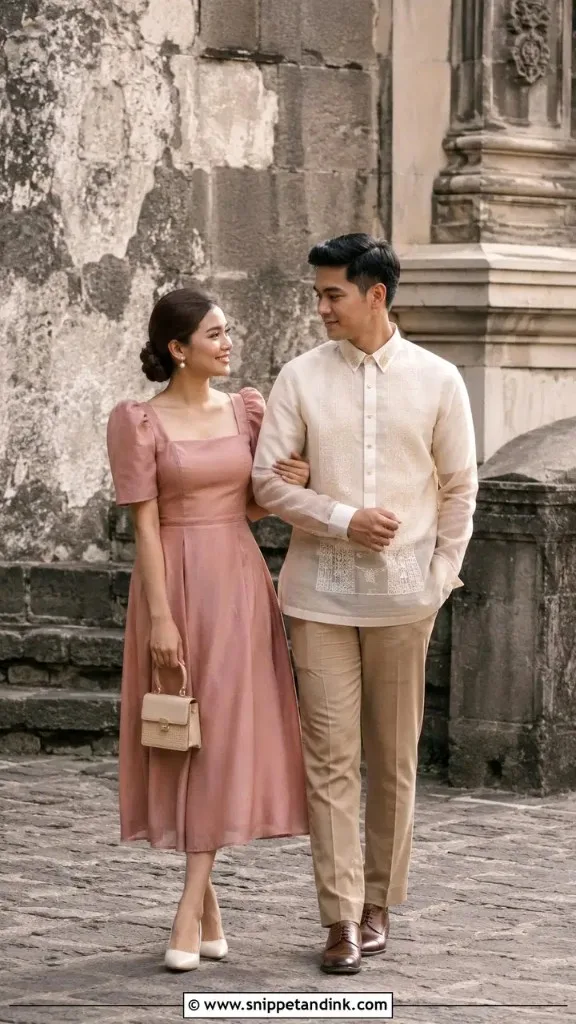
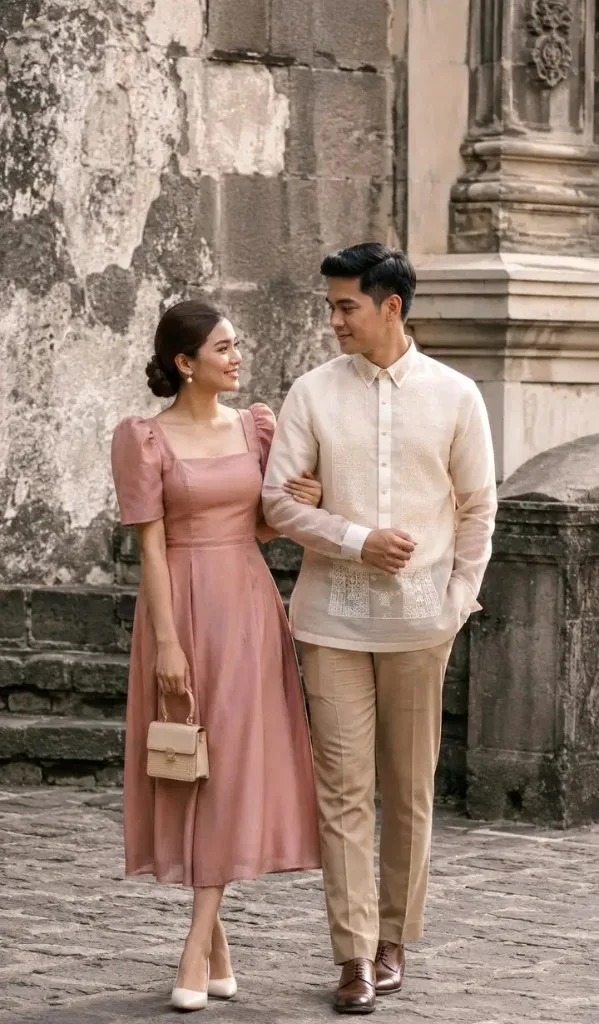
UI enhances

diff --git a/src/features/invitations/components/lantern/config/wedding-defaults.ts b/src/features/invitations/components/lantern/config/wedding-defaults.ts
@@ -88,12 +88,12 @@ export const weddingDefaults = {
           men: "Cream Barong Tagalog.",
           swatches: ["#F4C2C2", "#CB7579", "#CB938C", "#F7E7CE"],
           badge: null,
-          imageSrc: "/attire/family-editorial.webp",
-          imageAlt: "Family formal attire in dusty rose and cream Barong Tagalog",
+          imageSrc: "/attire/secondary-sponsors.webp",
+          imageAlt: "Secondary sponsors in dusty rose formal dress and cream Barong Tagalog",
         },
         {
           role: "Principal Sponsors",
-          description: "Formal attire in shades of Antique white, Champagne and Bisque",
+          description: "Formal Attire in Shades of Cream and Champagne",
           women: null,
           men: null,
           swatches: ["#FAEBD7", "#F7F7CE", "#FFE4C4"],
@@ -103,8 +103,7 @@ export const weddingDefaults = {
         },
         {
           role: "Team Bride",
-          description:
-            " Pastel Pink, Pink, Flamingo pink, and Carnation pink (Provided by the Couple)",
+          description: "Light Pink Attire (Provided by the Couple)",
           women: null,
           men: null,
           swatches: ["#FFD1DC", "#FFC0CB", "#FC8EAC", "#FFA6C9"],
@@ -114,7 +113,7 @@ export const weddingDefaults = {
         },
         {
           role: "Team Groom",
-          description: "Light tan Suit with Baby Pink Tie (Provided by the Couple)",
+          description: "Cream Suit with Pink Tie (Provided by the Couple)",
           women: null,
           men: null,
           swatches: ["#ECDEC9", "#F4C2C2"],

diff --git a/src/features/invitations/components/lantern/effects/prism-carousel.tsx b/src/features/invitations/components/lantern/effects/prism-carousel.tsx
@@ -337,7 +337,7 @@ export const PrismCarousel = React.forwardRef<PrismCarouselHandle, Props>(
                   }
                   aria-current={isActive ? "true" : undefined}
                   className={[
-                    "absolute left-1/2 top-1/2 overflow-hidden border-0 bg-transparent p-0 shadow-[0_28px_60px_-36px_rgba(96,40,60,0.55)] focus-visible:outline focus-visible:outline-2 focus-visible:outline-offset-4 focus-visible:outline-[color:var(--color-lantern,#f4c444)]",
+                    "absolute left-1/2 top-1/2 overflow-hidden border-0 bg-[#f7efe8] p-0 shadow-[0_28px_60px_-36px_rgba(96,40,60,0.55)] focus-visible:outline focus-visible:outline-2 focus-visible:outline-offset-4 focus-visible:outline-[color:var(--color-lantern,#f4c444)]",
                     isActive ? "cursor-zoom-in" : "cursor-pointer",
                   ].join(" ")}
                   style={{
@@ -403,7 +403,7 @@ export const PrismCarousel = React.forwardRef<PrismCarouselHandle, Props>(
                     alt={item.alt}
                     fill
                     sizes="(max-width: 768px) 70vw, 360px"
-                    className="pointer-events-none select-none object-cover object-[50%_18%]"
+                    className="pointer-events-none select-none object-contain object-center"
                     draggable={false}
                     priority={isActive}
                   />

diff --git a/src/features/invitations/components/lantern/media.ts b/src/features/invitations/components/lantern/media.ts
@@ -155,8 +155,8 @@ export const VENUE_IMAGE = {
 /** Attire guide references by wedding party role. */
 export const attireGuideImages = {
   family: {
-    src: "/attire/family-editorial.webp",
-    alt: "Family formal attire in dusty rose and cream Barong Tagalog",
+    src: "/attire/secondary-sponsors.webp",
+    alt: "Secondary sponsors in dusty rose formal dress and cream Barong Tagalog",
   },
   sponsors: {
     src: "/attire/sponsors-image.webp",

diff --git a/src/features/invitations/components/lantern/sections/attire.tsx b/src/features/invitations/components/lantern/sections/attire.tsx
@@ -325,7 +325,7 @@ export function Attire() {
             />
             <p
               className="font-cinzel text-base font-bold uppercase tracking-[0.22em] sm:text-xl sm:tracking-[0.28em] lg:text-2xl lg:tracking-[0.3em]"
-              style={{ color: colors.gold }}
+              style={{ color: colors.title }}
             >
               {dressCode.restriction}
             </p>
